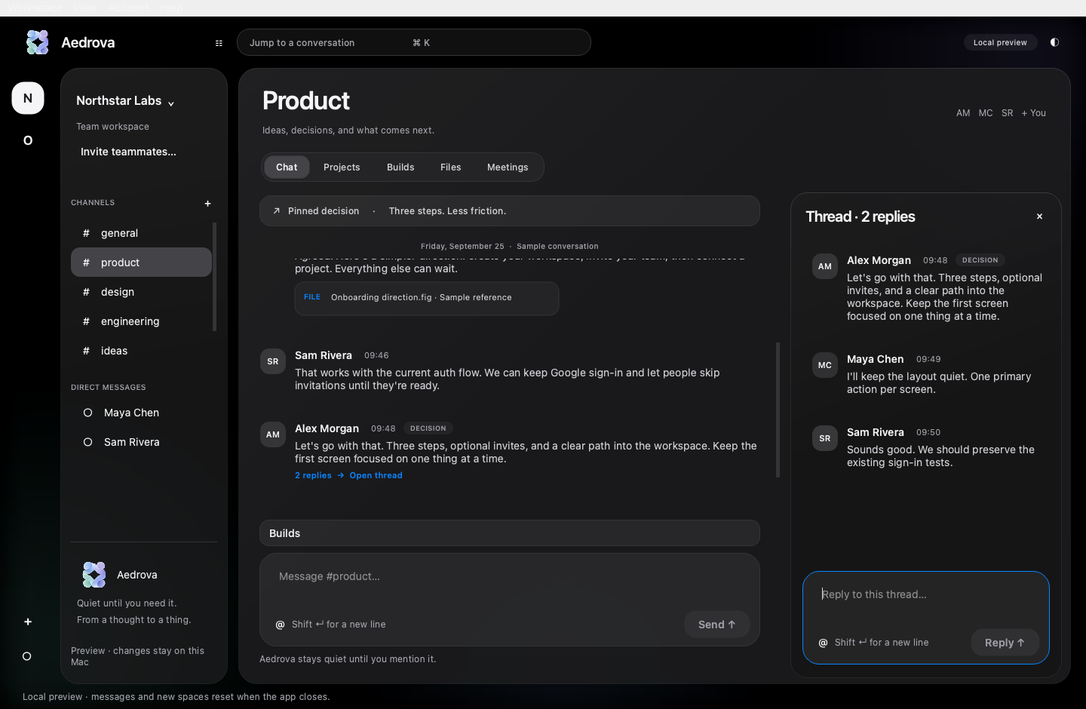
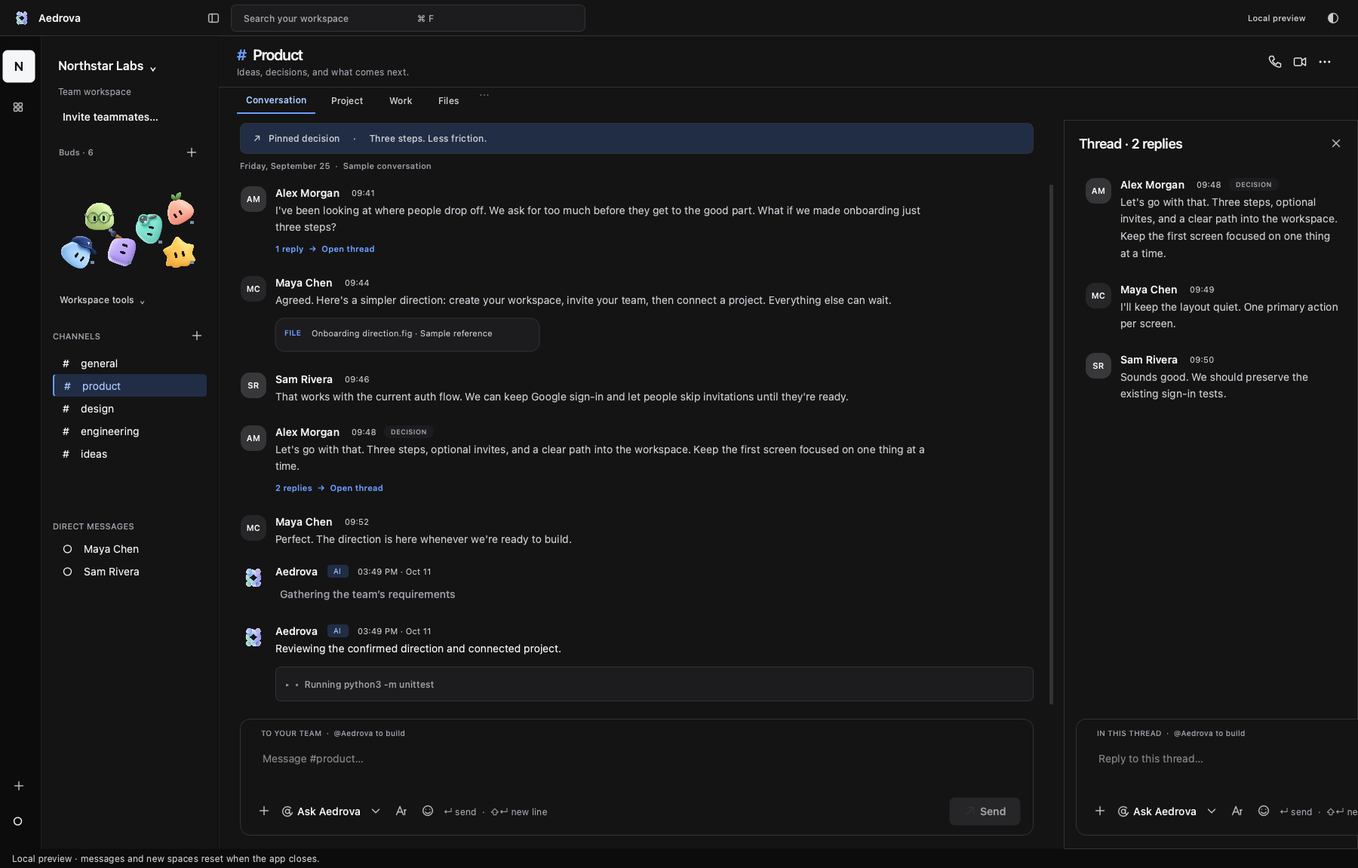
Refresh all product UI screenshots from the current desktop app

diff --git a/aedrova_site/templates/home.html b/aedrova_site/templates/home.html
@@ -19,7 +19,7 @@
 </section>
 
 <section class="statement reveal" id="how-it-works"><div class="section-label"><span>01 / FROM CONVERSATION TO CREATION</span><span>Aedrova, in three moments</span></div><h2>You’ve talked it through.<br><em>Now bring it to life.</em></h2><p>The idea. The decisions. The detail someone mentioned last Tuesday.<br>Your agent searches across your accessible chatspace to connect the dots before it builds.</p><div class="journey"><div><b>01</b><h3>Organize your team.</h3><p>Bring teams, channels and project discussions into a focused workspace.</p></div><div><b>02</b><h3>Give it direction.</h3><p>Agree on what’s next. Name your agent and connect your project.</p></div><div><b>03</b><h3>Make something real.</h3><p>Mention your agent. It plans, codes and tests with your saved permissions.</p></div></div></section>
-<section class="product-section reveal"><div class="product-intro"><span class="eyebrow">TEAM COMMUNICATION, CONNECTED TO DELIVERY.</span><h2>Your team’s workspace.<br><em>With the power to build.</em></h2><p>Your team already knows the story. Your agent should too.<br>Shared conversations, project briefs and agreed decisions become its starting point.</p></div><figure class="desktop-capture"><img data-capture-theme="dark" src="/static/workspace-dark.png" alt="Actual Aedrova desktop: Workspace channels and team conversation" loading="lazy"><figcaption>Actual Aedrova desktop · Local demonstration workspace</figcaption></figure>
+<section class="product-section reveal"><div class="product-intro"><span class="eyebrow">TEAM COMMUNICATION, CONNECTED TO DELIVERY.</span><h2>Your team’s workspace.<br><em>With the power to build.</em></h2><p>Your team already knows the story. Your agent should too.<br>Shared conversations, project briefs and agreed decisions become its starting point.</p></div><figure class="desktop-capture"><img data-capture-theme="dark" src="/static/workspace-dark.png?v=20261011" alt="Actual Aedrova desktop: Workspace channels and team conversation" loading="lazy" width="1800" height="1151"><figcaption>Actual Aedrova desktop · Local demonstration workspace</figcaption></figure>
 <div class="integration-strip"><span>Keep the tools you love.</span><strong>Codex</strong><strong>Claude Code</strong><strong>GitHub</strong><strong>VS Code</strong><strong>Cursor</strong></div></section>
 <section class="buds-section reveal" id="ai-teammates" aria-labelledby="buds-heading">
 <div class="buds-heading"><span class="eyebrow">MEET YOUR BUDS · DESKTOP PREVIEW</span><h2 id="buds-heading">Small teammates.<br><em>Real potential.</em></h2><p>Give each Bud a name, a specialty and a little personality.<br>They live beside your team, ready when you mention them.</p></div>
@@ -27,27 +27,27 @@
 <p class="buds-availability">Buds are implemented in the desktop preview. Connector availability depends on provider setup and authorization; some integrations still require production approval. Public access remains waitlist-only.</p>
 </section>
 <section class="features" id="features"><div class="section-label"><span>02 / THE WORKSPACE</span><span>Everything has its place</span></div>
-<article class="feature-story reveal"><div class="story-copy"><span class="eyebrow">THE TEAM’S HOME BASE</span><h2>Keep teams aligned.<br><em>Keep discussions focused.</em></h2><p>Private workspaces and channels. Focused threads. Direct messages, shared files and easy invitations. One place for the people behind the product.</p><span class="feature-note">Channels · Threads · DMs · Files · Invitations · Roles</span></div><figure class="story-capture"><img data-capture-theme="light" src="/static/thread-light.png" alt="Actual Aedrova desktop: Focused discussion in the thread panel" loading="lazy"><figcaption>Actual desktop UI · Local demonstration workspace</figcaption></figure></article>
-<article class="feature-story reverse reveal"><div class="story-copy"><span class="eyebrow">SAME TEAM. SAME CONTEXT.</span><h2>It starts with<br><em>what your team knows.</em></h2><p>The brief is more than your last message. When you ask Aedrova to build, it searches your accessible channels, threads and conversations, brings in supported text files and project briefs, and follows the decisions your team has confirmed. Less re-explaining. More building from the same understanding.</p><span class="feature-note">Chats &amp; threads · Supported text files · Project briefs · Confirmed decisions</span></div><figure class="story-capture"><img data-capture-theme="light" src="/static/files-light.png" alt="Actual Aedrova desktop: Shared sample product briefs and design references" loading="lazy"><figcaption>Actual desktop UI · Local demonstration workspace</figcaption></figure></article>
-<article class="feature-story reveal"><div class="story-copy"><span class="eyebrow">YOUR NEW TEAMMATE</span><h2>Meet Aedrova.<br><em>Or make it your own.</em></h2><p>A named coding agent, powered by Codex or Claude Code. It plans and executes in the background using your project permissions. Give it a task. Keep the conversation going.</p><span class="feature-note">Agent nicknames · Automatic planning · Live activity · Stop controls</span></div><figure class="story-capture"><img data-capture-theme="dark" src="/static/activity-dark.png" alt="Actual Aedrova desktop: In-chat coding agent activity demonstration" loading="lazy"><figcaption>Actual desktop UI · Demonstration activity, not a live provider run</figcaption></figure></article>
-<article class="feature-story reverse reveal"><div class="story-copy"><span class="eyebrow">REAL WORK, IN YOUR REAL PROJECT</span><h2>The conversation ends.<br><em>The code begins.</em></h2><p>Connect your local project and IDE. Your agent builds in a separate copy, runs tests and shows its work. Review the diff, apply the changes and approve delivery to GitHub.</p><span class="feature-note">Local IDE · Tests · Diffs · Approved branch &amp; draft PR · Static preview</span></div><figure class="story-capture"><img data-capture-theme="dark" src="/static/projects-dark.png" alt="Actual Aedrova desktop: Projects tab with a sample project brief" loading="lazy"><figcaption>Actual desktop UI · Projects tab with a sample brief</figcaption></figure></article>
+<article class="feature-story reveal"><div class="story-copy"><span class="eyebrow">THE TEAM’S HOME BASE</span><h2>Keep teams aligned.<br><em>Keep discussions focused.</em></h2><p>Private workspaces and channels. Focused threads. Direct messages, shared files and easy invitations. One place for the people behind the product.</p><span class="feature-note">Channels · Threads · DMs · Files · Invitations · Roles</span></div><figure class="story-capture"><img data-capture-theme="light" src="/static/thread-light.png?v=20261011" alt="Actual Aedrova desktop: Focused discussion in the thread panel" loading="lazy" width="1800" height="1151"><figcaption>Actual desktop UI · Local demonstration workspace</figcaption></figure></article>
+<article class="feature-story reverse reveal"><div class="story-copy"><span class="eyebrow">SAME TEAM. SAME CONTEXT.</span><h2>It starts with<br><em>what your team knows.</em></h2><p>The brief is more than your last message. When you ask Aedrova to build, it searches your accessible channels, threads and conversations, brings in supported text files and project briefs, and follows the decisions your team has confirmed. Less re-explaining. More building from the same understanding.</p><span class="feature-note">Chats &amp; threads · Supported text files · Project briefs · Confirmed decisions</span></div><figure class="story-capture"><img data-capture-theme="light" src="/static/files-light.png?v=20261011" alt="Actual Aedrova desktop: Shared sample product briefs and design references" loading="lazy" width="1800" height="1151"><figcaption>Actual desktop UI · Local demonstration workspace</figcaption></figure></article>
+<article class="feature-story reveal"><div class="story-copy"><span class="eyebrow">YOUR NEW TEAMMATE</span><h2>Meet Aedrova.<br><em>Or make it your own.</em></h2><p>A named coding agent, powered by Codex or Claude Code. It plans and executes in the background using your project permissions. Give it a task. Keep the conversation going.</p><span class="feature-note">Agent nicknames · Automatic planning · Live activity · Stop controls</span></div><figure class="story-capture"><img data-capture-theme="dark" src="/static/activity-dark.png?v=20261011" alt="Actual Aedrova desktop: In-chat coding agent activity demonstration" loading="lazy" width="1800" height="1151"><figcaption>Actual desktop UI · Demonstration activity, not a live provider run</figcaption></figure></article>
+<article class="feature-story reverse reveal"><div class="story-copy"><span class="eyebrow">REAL WORK, IN YOUR REAL PROJECT</span><h2>The conversation ends.<br><em>The code begins.</em></h2><p>Connect your local project and IDE. Your agent builds in a separate copy, runs tests and shows its work. Review the diff, apply the changes and approve delivery to GitHub.</p><span class="feature-note">Local IDE · Tests · Diffs · Approved branch &amp; draft PR · Static preview</span></div><figure class="story-capture"><img data-capture-theme="dark" src="/static/projects-dark.png?v=20261011" alt="Actual Aedrova desktop: Projects tab with a sample project brief" loading="lazy" width="1800" height="1151"><figcaption>Actual desktop UI · Projects tab with a sample brief</figcaption></figure></article>
 <div class="principles reveal"><article><span>01 / YOUR SPACE, YOUR SAY</span><h3>Control stays with you.</h3><p>Google sign-in, workspace roles and channel access. Review before applying changes. Publishing to GitHub takes a separate approval.</p></article><article><span>02 / KEEP THE THREAD</span><h3>Pick up where you left off.</h3><p>A durable build queue, run history and usage visibility. Saved work stays available. Choose what to resume after a restart.</p></article></div>
 </section>
 <section class="meeting-section reveal" id="meetings" aria-labelledby="meeting-heading">
 <div class="meeting-copy"><span class="eyebrow">MEETINGS / PART OF YOUR WORKSPACE</span><h2 id="meeting-heading">Talk it through.<br><em>Keep the understanding.</em></h2><p>Start a meeting from a channel. Bring your team together with audio, video and screen sharing, then return to the conversation without leaving Aedrova.</p><p>A join card brings public meetings into #general or your team’s chosen channel. See who’s there through participant photos and a live count. Private meetings stay in their own channel.</p><span class="coming">Implemented in the desktop preview · Public rollout pending</span></div>
-<figure class="story-capture meeting-overview"><picture><img class="meeting-image-light" src="/static/meetings-light.png" alt="Actual light-theme Aedrova Meetings tab with Start meeting and Check meeting devices" width="1800" height="1173" loading="lazy"><img class="meeting-image-dark" src="/static/meetings-dark.png" alt="Actual dark-theme Aedrova Meetings tab with Start meeting and Check meeting devices" width="1800" height="1173" loading="lazy"></picture><figcaption>Actual Mac app · Local preview · No staged call or simulated participants</figcaption></figure>
+<figure class="story-capture meeting-overview"><picture><img class="meeting-image-light" src="/static/meetings-light.png?v=20261011" alt="Actual light-theme Aedrova meeting settings with Start meeting and Check meeting devices" loading="lazy" width="1060" height="830"><img class="meeting-image-dark" src="/static/meetings-dark.png?v=20261011" alt="Actual dark-theme Aedrova meeting settings with Start meeting and Check meeting devices" loading="lazy" width="1060" height="830"></picture><figcaption>Actual Mac app · Local preview · No staged call or simulated participants</figcaption></figure>
 </section>
 <section class="meeting-details reveal" aria-label="Meeting capabilities">
 <article><span class="eyebrow">01 / A FAMILIAR PLACE TO MEET</span><h3>The controls you expect.</h3><p>Gallery and speaker views. A participant panel. Clear microphone, camera and screen-sharing controls. Join with your devices off and choose when to enable them.</p></article>
 <article><span class="eyebrow">02 / READY BEFORE YOU JOIN</span><h3>A little confidence first.</h3><p>Check your camera, microphone input, speakers and screen preview locally. Device checks aren’t shared with the meeting or saved as recordings.</p></article>
 <article><span class="eyebrow">03 / CONTEXT, WITH CONSENT</span><h3>Words that inform the work.</h3><p>Optional audio transcription requires current consent from every participant. AI reuse is a separate choice. Review saved text, edit it and confirm decisions before it becomes part of your agent’s accessible build context.</p></article>
 </section>
-<section class="meeting-device-section reveal"><div class="meeting-copy"><span class="eyebrow">YOUR TEAM’S CONTEXT. YOUR TEAM’S CONTROL.</span><h2>The discussion<br><em>stays connected.</em></h2><p>Chat explains what changed. Meetings explain why. Reviewed, consented transcripts and confirmed decisions can sit alongside accessible conversations and supported files when your agent gathers the context for a build.</p><p>Meeting context comes from audio transcripts and reviewed text. Screen sharing lets teammates see your work; it does not give the agent automatic visual understanding of your screen.</p><small>Transcription requires an enabled meeting service and speech provider. Public meeting availability is still being validated; the website remains waitlist-only.</small></div><figure class="story-capture meeting-device-capture"><img class="meeting-image-light" src="/static/devices-light.png" alt="Actual light-theme Aedrova device setup with camera, microphone, speaker and screen checks; all devices off" width="1520" height="1620" loading="lazy"><img class="meeting-image-dark" src="/static/devices-dark.png" alt="Actual dark-theme Aedrova device setup with camera, microphone, speaker and screen checks; all devices off" width="1520" height="1620" loading="lazy"><figcaption>Actual device-check screen · Devices off</figcaption></figure></section>
-<section class="meeting-device-section reveal" id="product-memory"><div class="meeting-copy"><span class="eyebrow">PRODUCT MEMORY · DESKTOP PREVIEW</span><h2>Decisions that stay.<br><em>Context that evolves.</em></h2><p>Keep goals, requirements and constraints beside the conversations that shaped them. Review proposals, approve decisions and trace each entry back to its source.</p><p>Changed evidence is flagged. Replacements retain revision history. Your agent receives a pinned memory snapshot for its build, with private-source permissions intact.</p><small>Implemented in the local desktop preview. Hosted memory persistence and privacy checks are validated; public access remains waitlist-only. Proposals and unresolved conflicts are not approved requirements.</small></div><figure class="story-capture"><img class="meeting-image-light" src="/static/memory-light.png" alt="Actual Aedrova Product memory view in light theme, with a sample approved constraint and source citation" width="1000" height="1050" loading="lazy"><img class="meeting-image-dark" src="/static/memory-dark.png" alt="Actual Aedrova Product memory view in dark theme, with a sample approved constraint and review controls" width="1000" height="1050" loading="lazy"><figcaption>Actual desktop preview · Sample data · Rollout pending</figcaption></figure></section>
+<section class="meeting-device-section reveal"><div class="meeting-copy"><span class="eyebrow">YOUR TEAM’S CONTEXT. YOUR TEAM’S CONTROL.</span><h2>The discussion<br><em>stays connected.</em></h2><p>Chat explains what changed. Meetings explain why. Reviewed, consented transcripts and confirmed decisions can sit alongside accessible conversations and supported files when your agent gathers the context for a build.</p><p>Meeting context comes from audio transcripts and reviewed text. Screen sharing lets teammates see your work; it does not give the agent automatic visual understanding of your screen.</p><small>Transcription requires an enabled meeting service and speech provider. Public meeting availability is still being validated; the website remains waitlist-only.</small></div><figure class="story-capture meeting-device-capture"><img class="meeting-image-light" src="/static/devices-light.png?v=20261011" alt="Actual light-theme Aedrova device setup with camera, microphone, speaker and screen checks; all devices off" loading="lazy" width="1050" height="1050"><img class="meeting-image-dark" src="/static/devices-dark.png?v=20261011" alt="Actual dark-theme Aedrova device setup with camera, microphone, speaker and screen checks; all devices off" loading="lazy" width="1050" height="1050"><figcaption>Actual device-check screen · Devices off</figcaption></figure></section>
+<section class="meeting-device-section reveal" id="product-memory"><div class="meeting-copy"><span class="eyebrow">PRODUCT MEMORY · DESKTOP PREVIEW</span><h2>Decisions that stay.<br><em>Context that evolves.</em></h2><p>Keep goals, requirements and constraints beside the conversations that shaped them. Review proposals, approve decisions and trace each entry back to its source.</p><p>Changed evidence is flagged. Replacements retain revision history. Your agent receives a pinned memory snapshot for its build, with private-source permissions intact.</p><small>Implemented in the local desktop preview. Hosted memory persistence and privacy checks are validated; public access remains waitlist-only. Proposals and unresolved conflicts are not approved requirements.</small></div><figure class="story-capture"><img class="meeting-image-light" src="/static/memory-light.png?v=20261011" alt="Actual Aedrova Product memory view in light theme, with a sample approved constraint and source citation" loading="lazy" width="1400" height="1100"><img class="meeting-image-dark" src="/static/memory-dark.png?v=20261011" alt="Actual Aedrova Product memory view in dark theme, with a sample approved constraint and review controls" loading="lazy" width="1400" height="1100"><figcaption>Actual desktop preview · Sample data · Rollout pending</figcaption></figure></section>
 
-<section class="meeting-device-section reveal buds-connectors-story"><div class="meeting-copy"><span class="eyebrow">YOUR TOOLS. A LITTLE MORE CONNECTED.</span><h2>Give your Bud<br><em>a useful starting point.</em></h2><p>A connector gallery organized around your Bud’s role. Recognizable app icons, clear access descriptions and connection status make setup easier to understand.</p><p>GitHub, Supabase, Figma, Notion, Stripe, TikTok, Instagram, Search and Vercel appear in the gallery. A listed connector is not a promise of public availability: each provider has its own setup and approval requirements.</p><a class="text-link" href="/waitlist">Meet your Buds when Aedrova opens →</a></div><figure class="story-capture bud-capture"><img src="/static/buds-connectors-current.png" alt="Actual current Aedrova Bud setup: Builder connector gallery with GitHub, Supabase and Vercel app icons" width="2200" height="1600" loading="lazy"><figcaption>Actual current Mac app · Bud connector gallery · Preview</figcaption><span class="bud-peek capture-bud" aria-hidden="true"><span class="site-bud look-research"></span></span></figure></section>
-<section class="meeting-device-section reveal"><div class="meeting-copy"><span class="eyebrow">A CLEAR HANDOFF</span><h2>Connected.<br><em>And in your corner.</em></h2><p>Connection confirmations show your Bud, the authorized tool and what it can access. Return to your workspace and keep moving.</p><small>This real preview capture shows a verified, read-only TikTok connection. TikTok production approval is still pending.</small></div><figure class="story-capture"><img src="/static/buds-connection-current.png" alt="Actual Aedrova preview confirmation: Orbit Bud with TikTok connected and verified read-only profile and public video access" loading="lazy"><figcaption>Actual connection confirmation · Read-only preview validation</figcaption></figure></section>
-<section class="meeting-device-section reveal" id="build-evidence"><div class="meeting-copy"><span class="eyebrow">BUILD EVIDENCE · DESKTOP PREVIEW</span><h2>From a decision.<br><em>To a reviewable change.</em></h2><p>Connect approved requirements and source citations to actual file diffs and observed check results. Keep acceptance criteria beside the evidence your team reviews.</p><p>Comment, request changes and approve an exact evidence version. A changed source or a later edit keeps old checks from standing in for current verification.</p><small>Implemented in the local desktop preview. Hosted shared-review persistence and two-account permission checks are validated. Review does not apply or publish code; delivery still uses explicit approval. Public access remains waitlist-only.</small></div><figure class="story-capture"><img class="meeting-image-light" src="/static/build-review-light.png" alt="Actual light-theme Aedrova build evidence screen with sample requirements and a real local check" width="1000" height="840" loading="lazy"><img class="meeting-image-dark" src="/static/build-review-dark.png" alt="Actual dark-theme Aedrova shared-review screen with sample evidence" width="1000" height="840" loading="lazy"><figcaption>Actual desktop preview · Sample data · Rollout pending</figcaption></figure></section>
+<section class="meeting-device-section reveal buds-connectors-story"><div class="meeting-copy"><span class="eyebrow">YOUR TOOLS. A LITTLE MORE CONNECTED.</span><h2>Give your Bud<br><em>a useful starting point.</em></h2><p>A connector gallery organized around your Bud’s role. Recognizable app icons, clear access descriptions and connection status make setup easier to understand.</p><p>GitHub, Supabase, Figma, Notion, Stripe, TikTok, Instagram, Search and Vercel appear in the gallery. A listed connector is not a promise of public availability: each provider has its own setup and approval requirements.</p><a class="text-link" href="/waitlist">Meet your Buds when Aedrova opens →</a></div><figure class="story-capture bud-capture"><img src="/static/buds-connectors-current.png?v=20261011" alt="Actual current Aedrova Bud setup: Builder connector gallery with GitHub, Supabase and Vercel app icons" loading="lazy" width="1200" height="1000"><figcaption>Actual current Mac app · Bud connector gallery · Preview</figcaption><span class="bud-peek capture-bud" aria-hidden="true"><span class="site-bud look-research"></span></span></figure></section>
+<section class="meeting-device-section reveal"><div class="meeting-copy"><span class="eyebrow">A CLEAR HANDOFF</span><h2>Connected.<br><em>And in your corner.</em></h2><p>Connection confirmations show your Bud, the authorized tool and what it can access. Return to your workspace and keep moving.</p><small>This current desktop capture uses demonstration data to show a read-only GitHub confirmation. It does not establish public connector availability.</small></div><figure class="story-capture"><img src="/static/buds-connection-current.png?v=20261011" alt="Current Aedrova desktop confirmation UI: Orbit Bud with a sample read-only GitHub connection" loading="lazy" width="823" height="572"><figcaption>Actual desktop confirmation UI · Demonstration data</figcaption></figure></section>
+<section class="meeting-device-section reveal" id="build-evidence"><div class="meeting-copy"><span class="eyebrow">BUILD EVIDENCE · DESKTOP PREVIEW</span><h2>From a decision.<br><em>To a reviewable change.</em></h2><p>Connect approved requirements and source citations to actual file diffs and observed check results. Keep acceptance criteria beside the evidence your team reviews.</p><p>Comment, request changes and approve an exact evidence version. A changed source or a later edit keeps old checks from standing in for current verification.</p><small>Implemented in the local desktop preview. Hosted shared-review persistence and two-account permission checks are validated. Review does not apply or publish code; delivery still uses explicit approval. Public access remains waitlist-only.</small></div><figure class="story-capture"><img class="meeting-image-light" src="/static/build-review-light.png?v=20261011" alt="Actual light-theme Aedrova build evidence screen with sample requirements and a real local check" loading="lazy" width="1440" height="1000"><img class="meeting-image-dark" src="/static/build-review-dark.png?v=20261011" alt="Actual dark-theme Aedrova shared-review screen with sample evidence" loading="lazy" width="1440" height="1000"><figcaption>Actual desktop preview · Sample data · Rollout pending</figcaption></figure></section>
 <section class="more-section reveal"><span class="eyebrow">A LITTLE FURTHER AHEAD</span><h2>Room for what<br><em>comes next.</em></h2><p>Bring design intent into the same shared understanding.<br>Planned design and productivity integrations will connect more of the files,<br>designs and project knowledge your team works from.</p><div class="future-tools"><span>Figma</span><span>Notion</span><span>Google Drive</span><span>GitLab</span></div><small>On the roadmap. Availability will be announced as features ship.</small></section>
 <section class="faq reveal"><span class="eyebrow">A FEW THINGS YOU MIGHT BE WONDERING</span><h2>Let’s clear a little space.</h2><details><summary>Does my agent read every conversation?</summary><p>When you ask it to build, it searches across the workspace context you’re authorized to access, rather than relying only on your latest prompt. That includes accessible conversations, supported small text attachments and confirmed decisions. It stays quiet until invoked, and workspace and channel permissions still apply. Reviewed, consented meeting transcripts are implemented in the desktop preview and require an enabled meeting service. Buds can use authorized connector resources where provider setup is complete; public availability remains pending.</p></details><details><summary>Will it change my local project automatically?</summary><p>With your saved execution permission, the agent plans, codes and tests in a separate local copy. You review before applying changes to your original project. GitHub publication requires a separate approval.</p></details><details><summary>Are Codex and Claude Code included?</summary><p>The paid beta is being prepared with an included AI allowance through Aedrova’s managed provider access. Free includes limited AI access. Pro provides expanded capacity, and Team supports larger tasks and two simultaneous workflows. No automatic overage charges. <a href="/plans">Compare plans.</a> The current internal alpha uses separate provider setup; checkout stays closed until the paid experience is ready.</p></details><details><summary>Can we use it for meetings?</summary><p>The desktop preview includes channel meetings, audio and video, screen sharing, gallery and speaker views, device checks, and joinable channel announcements with participant presence. Optional transcription and AI reuse require participant consent and configured services. Public rollout and final multi-device validation are pending; join the waitlist for availability updates.</p></details><details><summary>What platform is Aedrova built for?</summary><p>Aedrova is a Mac desktop app, downloaded from this website. The public installer will be available after signing and release verification.</p></details></section>
 <section class="final-cta reveal bud-corner-section"><span class="bud-peek cta-bud" aria-hidden="true"><span class="site-bud look-marketing"></span></span><span class="eyebrow">GOOD THINGS START HERE</span><h2>Bring your team.<br><em>Move work forward.</em></h2><p>Your team’s conversations. Your shared understanding. Your next build.</p><a class="button" href="{{ "/waitlist" if waitlist_only else "/onboarding" }}">{{ "Join waitlist today" if waitlist_only else "Get started" }} <span>↗</span></a><a class="text-link" href="/plans">Take a look at the plans →</a></section>{% endblock %}

diff --git a/docs/product-captures-2026-10-11.md b/docs/product-captures-2026-10-11.md
@@ -1,0 +1,24 @@
+# Current desktop UI captures — October 11, 2026
+
+All 20 existing product screenshot assets were recaptured from the current native Qt application. Theme variants and retained screenshot assets are included. No application interface was fabricated. All sample workspace/connector data is disposable demonstration data; no remote authorization was issued, device enabled, or production database accessed. Meeting imagery now shows the current settings dialog instead of the removed Meetings tab. The confirmation sample shows GitHub, with updated honest copy. Cache versions force browsers to refresh changed assets.
+
[20 lines of base64/hex data omitted]
